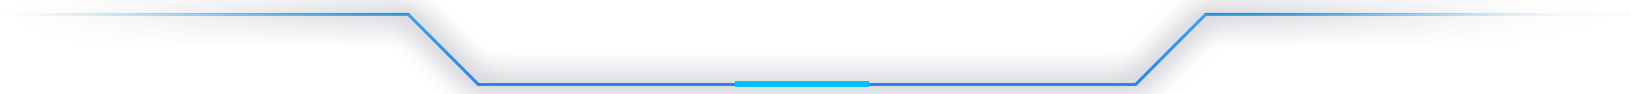
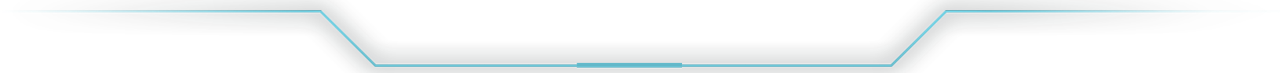
改漂亮点儿
研究列表还没想好

diff --git a/src/components/main.vue b/src/components/main.vue
@@ -11,12 +11,14 @@
           <div class="col-lg-3 fill-h">
             <div class="xpanel-wrapper xpanel-wrapper-2">
               <div class="xpanel">
-                <div class="title">研究列表</div>
-                <el-row style="height:800px">
+                <div class="title">
+                  <span style="margin-left:20px">研究列表</span>
+                </div>
+                <el-row style="height:80%">
                   <el-row style="margin:20px">
                     <div class="block"
-                         v-for="content in contents"
-                         :key="content">
+                         v-for="(content,index) in contents"
+                         :key="index">
                       <el-row type="flex"
                               align="middle"
                               style="margin-top:20px">
@@ -29,21 +31,48 @@
             </div>
           </div>
           <div class="col-lg-6 fill-h">
-            <div class="xpanel-wrapper xpanel-wrapper-1">
-              <div class="xpanel">
-                <!-- 地图散点 -->
-                <div class="fill-h"
+            <!-- <div class="xpanel-wrapper xpanel-wrapper-1">
+              <div class="xpanel"> -->
+            <!-- 地图散点 -->
+            <!-- <div class="fill-h"
                      id="scatterMap"></div>
               </div>
-            </div>
+            </div> -->
           </div>
           <div class="col-lg-3 fill-h">
             <div class="xpanel-wrapper xpanel-wrapper-3">
               <div class="xpanel">
                 <div class="fill-h">
-                  <div class="title">研究总览</div>
-                  <el-row style="height:400px">
-                    <el-row style="margin:10px">
+                  <div class="title">
+                    <span style="margin-left:20px">研究总览</span></div>
+                  <el-row style="height:85%">
+                    <table class="data-t">
+                      <tr>
+                        <th><img src="../static/img/icon-01.png" /></th>
+                        <td>
+                          <p><span>2000</span></p>
+                          <p>协同研究发起总数</p>
+                        </td>
+                        <th><img src="../static/img/icon-02.png" /></th>
+                        <td>
+                          <p><span>1288</span></p>
+                          <p>协同研究完成总数</p>
+                        </td>
+                      </tr>
+                      <tr>
+                        <th><img src="../static/img/icon-05.png" /></th>
+                        <td>
+                          <p><span>5236</span></p>
+                          <p>正在分布式计算协同研究总数</p>
+                        </td>
+                        <th><img src="../static/img/icon-06.png" /></th>
+                        <td>
+                          <p><span>8567</span></p>
+                          <p>还不知道叫什么</p>
+                        </td>
+                      </tr>
+                    </table>
+                    <!-- <el-row style="margin:10px">
                       <div v-for="item in researchView"
                            :key="item.label"
                            class="text item">
@@ -69,15 +98,16 @@
                           </el-row>
                         </div>
                       </div>
-                    </el-row>
+                    </el-row> -->
                   </el-row>
                 </div>
               </div>
             </div>
             <div class="xpanel-wrapper xpanel-wrapper-3">
               <div class="xpanel">
-                <div class="title">操作数据</div>
-                <el-row style="height:350px"
+                <div class="title">
+                  <span style="margin-left:20px">操作数据</span></div>
+                <el-row style="height:80%"
                         class="performdata">
                   <el-carousel indicator-position="outside">
                     <el-carousel-item>
@@ -129,7 +159,6 @@
                                   {{activity.content}}</div>
                               </el-timeline-item>
                             </el-timeline>
-
                           </div>
                         </el-row>
                       </el-scrollbar>
@@ -277,7 +306,10 @@ export default {
         icon: 'el-icon-check',
         color: '#E6A23C'
       }],
-      contents: ['浙江省糖尿病发病率研究', '浙江省肺癌发病率研究', '浙江省糖尿病发病率研究', '浙江省肺癌发病率研究', '浙江省糖尿病发病率研究', '浙江省肺癌发病率研究', '浙江省糖尿病发病率研究', '浙江省肺癌发病率研究',],
+      contents: ['浙江省糖尿病发病率研究', '浙江省肺癌发病率研究', '浙江省糖尿病发病率研究',
+        '浙江省肺癌发病率研究', '浙江省糖尿病发病率研究', '浙江省肺癌发病率研究',
+        '浙江省糖尿病发病率研究', '浙江省肺癌发病率研究', '浙江省肺癌发病率研究',
+      ],
     }
   },
   mounted() {

diff --git a/src/static/css/app.css b/src/static/css/app.css
@@ -23,7 +23,7 @@ body.bg04 {background-image:url("../img/bg04.png");}
 .header {
 	margin:0 auto;
 	width:100%;
-	height:65px;
+	height:80px;
 	max-width:1920px;
 	background:url("../img/header.png") center no-repeat;
 }
@@ -34,9 +34,10 @@ body.bg04 {background-image:url("../img/bg04.png");}
 	text-align:center;
 	font-size:24px;
 	color:#5dc2fe;
+	font-weight: bold
 }
-.wrapper {position:absolute;top:80px;bottom:0;left:0;right:0;min-height:555px;}
-.header {position:relative;height:42px;box-sizing:border-box;}
+.wrapper {position:absolute;top:80px;bottom:0;left:0;right:0;min-height:834px;}
+/* .header {position:relative;height:42px;box-sizing:border-box;} */
 .container-fluid {height:100%;min-height:100%;}
 .row {margin-left:-7px;margin-right:-8px;}
 .row>div {padding-left:7px;padding-right:8px;}
@@ -49,8 +50,8 @@ body.bg04 {background-image:url("../img/bg04.png");}
 .xpanel {
 	padding:15px;
 	height:100%;
-	min-height:170px;
-	background:url("../img/panel-l-t.png") center no-repeat;
+	min-height:400px;
+	background:url("../img/panel.png") center no-repeat;
 	background-size:100% 100%;
 	box-sizing:border-box;
 }
@@ -76,3 +77,11 @@ body.bg04 {background-image:url("../img/bg04.png");}
 	background-repeat:no-repeat;
 	background-size:100% 100%;
 } 
+.data-t {table-layout:fixed;width:100%;height:100%;border-collapse:collapse;}
+.data-t th,
+.data-t td {min-height:48px;}
+.data-t th {width:60px;text-align:center;background:url("../img/icon-bg.png") center / 100% no-repeat;}
+.data-t th img {width:30px;height:30px;}
+.data-t td {padding-left:15px;}
+.data-t p {margin:5px 0;line-height:1;font-size:14px;color:#b0c2f9;}
+.data-t p span {font-size:32px;font-weight:bold;color:#fff;}

diff --git a/src/App.vue b/src/App.vue
@@ -14,5 +14,11 @@ export default {
 html,
 body {
   background-image: url("./static/img/bg01.png");
+  /* width: 100%;
+  height: 100%;
+  background-image: url("./static/img/bg01.png");
+  background-repeat: no-repeat;
+  background-position: center;
+  background-size: 100% 100%; */
 }
 </style>
